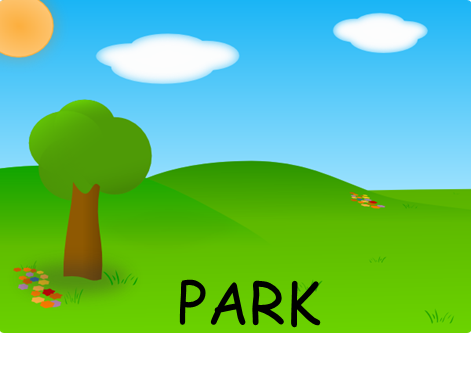
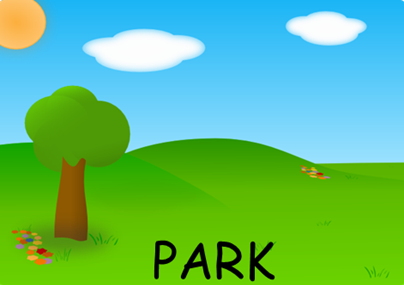
updates on location panel

diff --git a/src/View/LocationPanel.java b/src/View/LocationPanel.java
@@ -3,6 +3,7 @@ import java.awt.BorderLayout;
 import java.awt.Color;
 import java.awt.Component;
 import java.awt.Font;
+import java.awt.Image;
 import java.awt.Paint;
 import java.awt.event.ActionEvent;
 import java.awt.event.ActionListener;
@@ -28,8 +29,11 @@ import driver.StartFrameController;
 public class LocationPanel extends JPanel{
 	private JTextArea message; 
 	private String theme="";
-	private ImageIcon image;
+	private ImageIcon imageIcon;
 	private JButton locationButton1,locationButton2,locationButton3;
+	BufferedImage image;
+	ImageIcon icon;
+	Image image1;
 	public LocationPanel(JFrame main) throws IOException 
 	{
 		setBorder(new EmptyBorder(0, 0, 0, 0));
@@ -42,7 +46,11 @@ public class LocationPanel extends JPanel{
 		JPanel dialogPanel = new JPanel();
 		dialogPanel.setBorder(BorderFactory.createEmptyBorder(StartFrame.frameHeight*2/100,0,0,0));
 		dialogPanel.setOpaque(false);
-		ImagePanel box = new ImagePanel("assets/cloud2.png");
+		ImagePanel box = new ImagePanel();
+		image = ImageIO.read(new File("assets/cloud2.png"));
+		icon = new ImageIcon(image);
+		image1 = icon.getImage().getScaledInstance(StartFrame.frameWidth*80/100, StartFrame.frameHeight*30/100,Image.SCALE_SMOOTH);
+		box.setImage(image1);
 		SpringLayout dialogLayout = new SpringLayout();
         box.setLayout(dialogLayout);
         message = new JTextArea("Where do you want to go?");
@@ -74,22 +82,24 @@ public class LocationPanel extends JPanel{
 
 		themes.setLayout(themesLayout);
         
-        BufferedImage buttonIcon1 = ImageIO.read(new File("assets/loc1.png"));
-		locationButton1 = new JButton(new ImageIcon(buttonIcon1));
+        image = ImageIO.read(new File("assets/loc1.png"));
+		icon = new ImageIcon(image);
+		image1 = icon.getImage().getScaledInstance(StartFrame.frameWidth*28/100, StartFrame.frameHeight*30/100,Image.SCALE_SMOOTH);
+		locationButton1 = new JButton(new ImageIcon(image1));
 		locationButton1.setBorder(BorderFactory.createEmptyBorder());
 		locationButton1.setContentAreaFilled(false);
 		locationButton1.setBorderPainted(false);
 		locationButton1.addMouseListener(new java.awt.event.MouseAdapter() {
 		    public void mouseEntered(java.awt.event.MouseEvent evt) {
-		    	image = new ImageIcon("assets/loc1_clicked.png");
-		    	locationButton1.setIcon(image);
+		    	imageIcon = new ImageIcon("assets/loc1_clicked.png");
+		    	locationButton1.setIcon(imageIcon);
 		    }
 
 		    public void mouseExited(java.awt.event.MouseEvent evt) {
 		    	if(!theme.equals("home"))
 		    	{
-			    	image = new ImageIcon("assets/loc1.png");
-			    	locationButton1.setIcon(image);
+			    	imageIcon = new ImageIcon("assets/loc1.png");
+			    	locationButton1.setIcon(imageIcon);
 			    	
 			    	
 		    	}
@@ -98,67 +108,71 @@ public class LocationPanel extends JPanel{
 		locationButton1.addActionListener(new ActionListener() {
 		    public void actionPerformed(ActionEvent e) {
 		        theme = "home";
-		        image = new ImageIcon("assets/loc2.png");
-		        locationButton2.setIcon(image);
-		    	image = new ImageIcon("assets/loc3.png");
-		    	locationButton3.setIcon(image);
+		        imageIcon = new ImageIcon("assets/loc2.png");
+		        locationButton2.setIcon(imageIcon);
+		    	imageIcon = new ImageIcon("assets/loc3.png");
+		    	locationButton3.setIcon(imageIcon);
 		    }
 		});
 		
-		BufferedImage buttonIcon2 = ImageIO.read(new File("assets/loc2.png"));
-		locationButton2 = new JButton(new ImageIcon(buttonIcon2));
+		image = ImageIO.read(new File("assets/loc2.png"));
+		icon = new ImageIcon(image);
+		image1 = icon.getImage().getScaledInstance(StartFrame.frameWidth*28/100, StartFrame.frameHeight*30/100,Image.SCALE_SMOOTH);
+		locationButton2 = new JButton(new ImageIcon(image1));
 		locationButton2.setBorder(BorderFactory.createEmptyBorder());
 		locationButton2.setContentAreaFilled(false);
 		locationButton2.setBorderPainted(false);
 		locationButton2.addMouseListener(new java.awt.event.MouseAdapter() {
 		    public void mouseEntered(java.awt.event.MouseEvent evt) {
-		    	image = new ImageIcon("assets/loc2_clicked.png");
-		    	locationButton2.setIcon(image);
+		    	imageIcon = new ImageIcon("assets/loc2_clicked.png");
+		    	locationButton2.setIcon(imageIcon);
 		    }
 
 		    public void mouseExited(java.awt.event.MouseEvent evt) {
 		    	if(!theme.equals("school"))
 		    	{
-			    	image = new ImageIcon("assets/loc2.png");
-			    	locationButton2.setIcon(image);
+			    	imageIcon = new ImageIcon("assets/loc2.png");
+			    	locationButton2.setIcon(imageIcon);
 		    	}
 		    }
 		});
 		locationButton2.addActionListener(new ActionListener() {
 		    public void actionPerformed(ActionEvent e) {
 		        theme = "school";
-		        image = new ImageIcon("assets/loc1.png");
-		        locationButton1.setIcon(image);
-		    	image = new ImageIcon("assets/loc3.png");
-		    	locationButton3.setIcon(image);
+		        imageIcon = new ImageIcon("assets/loc1.png");
+		        locationButton1.setIcon(imageIcon);
+		    	imageIcon = new ImageIcon("assets/loc3.png");
+		    	locationButton3.setIcon(imageIcon);
 		    }
 		});
 		
-		BufferedImage buttonIcon3 = ImageIO.read(new File("assets/loc3.png"));
-		locationButton3 = new JButton(new ImageIcon(buttonIcon3));
+		image = ImageIO.read(new File("assets/loc3.png"));
+		icon = new ImageIcon(image);
+		image1 = icon.getImage().getScaledInstance(StartFrame.frameWidth*28/100, StartFrame.frameHeight*30/100,Image.SCALE_SMOOTH);
+		locationButton3 = new JButton(new ImageIcon(image1));
 		locationButton3.setBorder(BorderFactory.createEmptyBorder());
 		locationButton3.setContentAreaFilled(false);
 		locationButton3.setBorderPainted(false);
 		locationButton3.addMouseListener(new java.awt.event.MouseAdapter() {
 		    public void mouseEntered(java.awt.event.MouseEvent evt) {
-		    	image = new ImageIcon("assets/loc3_clicked.png");
-		    	locationButton3.setIcon(image);
+		    	imageIcon = new ImageIcon("assets/loc3_clicked.png");
+		    	locationButton3.setIcon(imageIcon);
 		    }
 
 		    public void mouseExited(java.awt.event.MouseEvent evt) {
 		    	if(!theme.equals("park")){
-			    	image = new ImageIcon("assets/loc3.png");
-			    	locationButton3.setIcon(image);
+			    	imageIcon = new ImageIcon("assets/loc3.png");
+			    	locationButton3.setIcon(imageIcon);
 		    	}
 		    }
 		});
 		locationButton3.addActionListener(new ActionListener() {
 		    public void actionPerformed(ActionEvent e) {
 		        theme = "park";
-		        image = new ImageIcon("assets/loc1.png");
-		        locationButton1.setIcon(image);
-		    	image = new ImageIcon("assets/loc2.png");
-		    	locationButton2.setIcon(image);
+		        imageIcon = new ImageIcon("assets/loc1.png");
+		        locationButton1.setIcon(imageIcon);
+		    	imageIcon = new ImageIcon("assets/loc2.png");
+		    	locationButton2.setIcon(imageIcon);
 		    }
 		});
 		

diff --git a/src/View/WelcomePanel.java b/src/View/WelcomePanel.java
@@ -102,7 +102,7 @@ public class WelcomePanel extends JPanel{
 		JPanel rightPanel = new JPanel();
 		rightPanel.setLayout(new BorderLayout());
 		rightPanel.setOpaque(false);
-		rightPanel.setBorder(BorderFactory.createLineBorder(Color.BLACK));
+//		rightPanel.setBorder(BorderFactory.createLineBorder(Color.BLACK));
 		JPanel namePanel = new JPanel();
 		SpringLayout nameLayout = new SpringLayout();
 		namePanel.setLayout(nameLayout);
